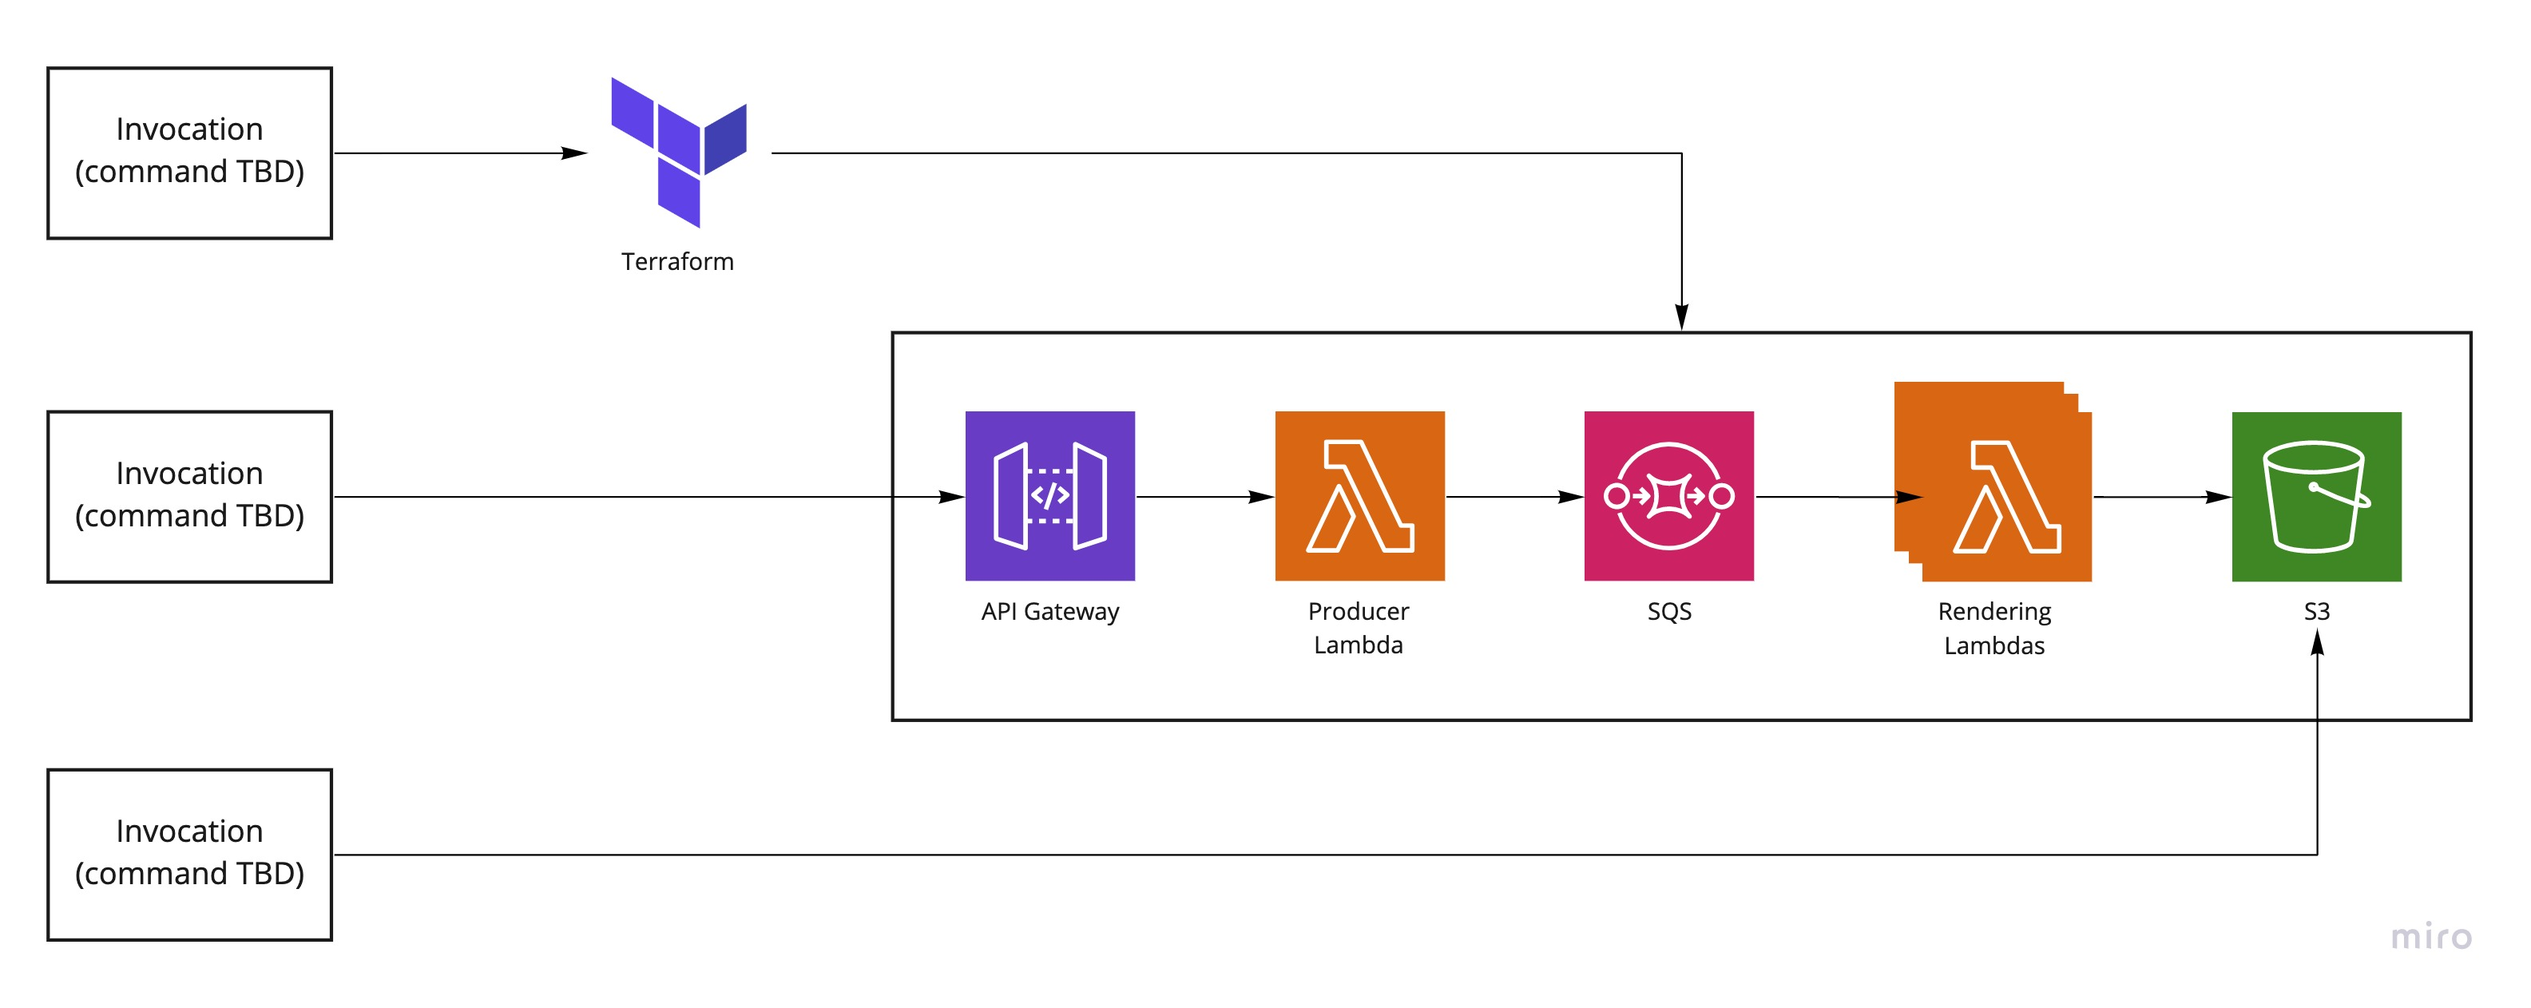
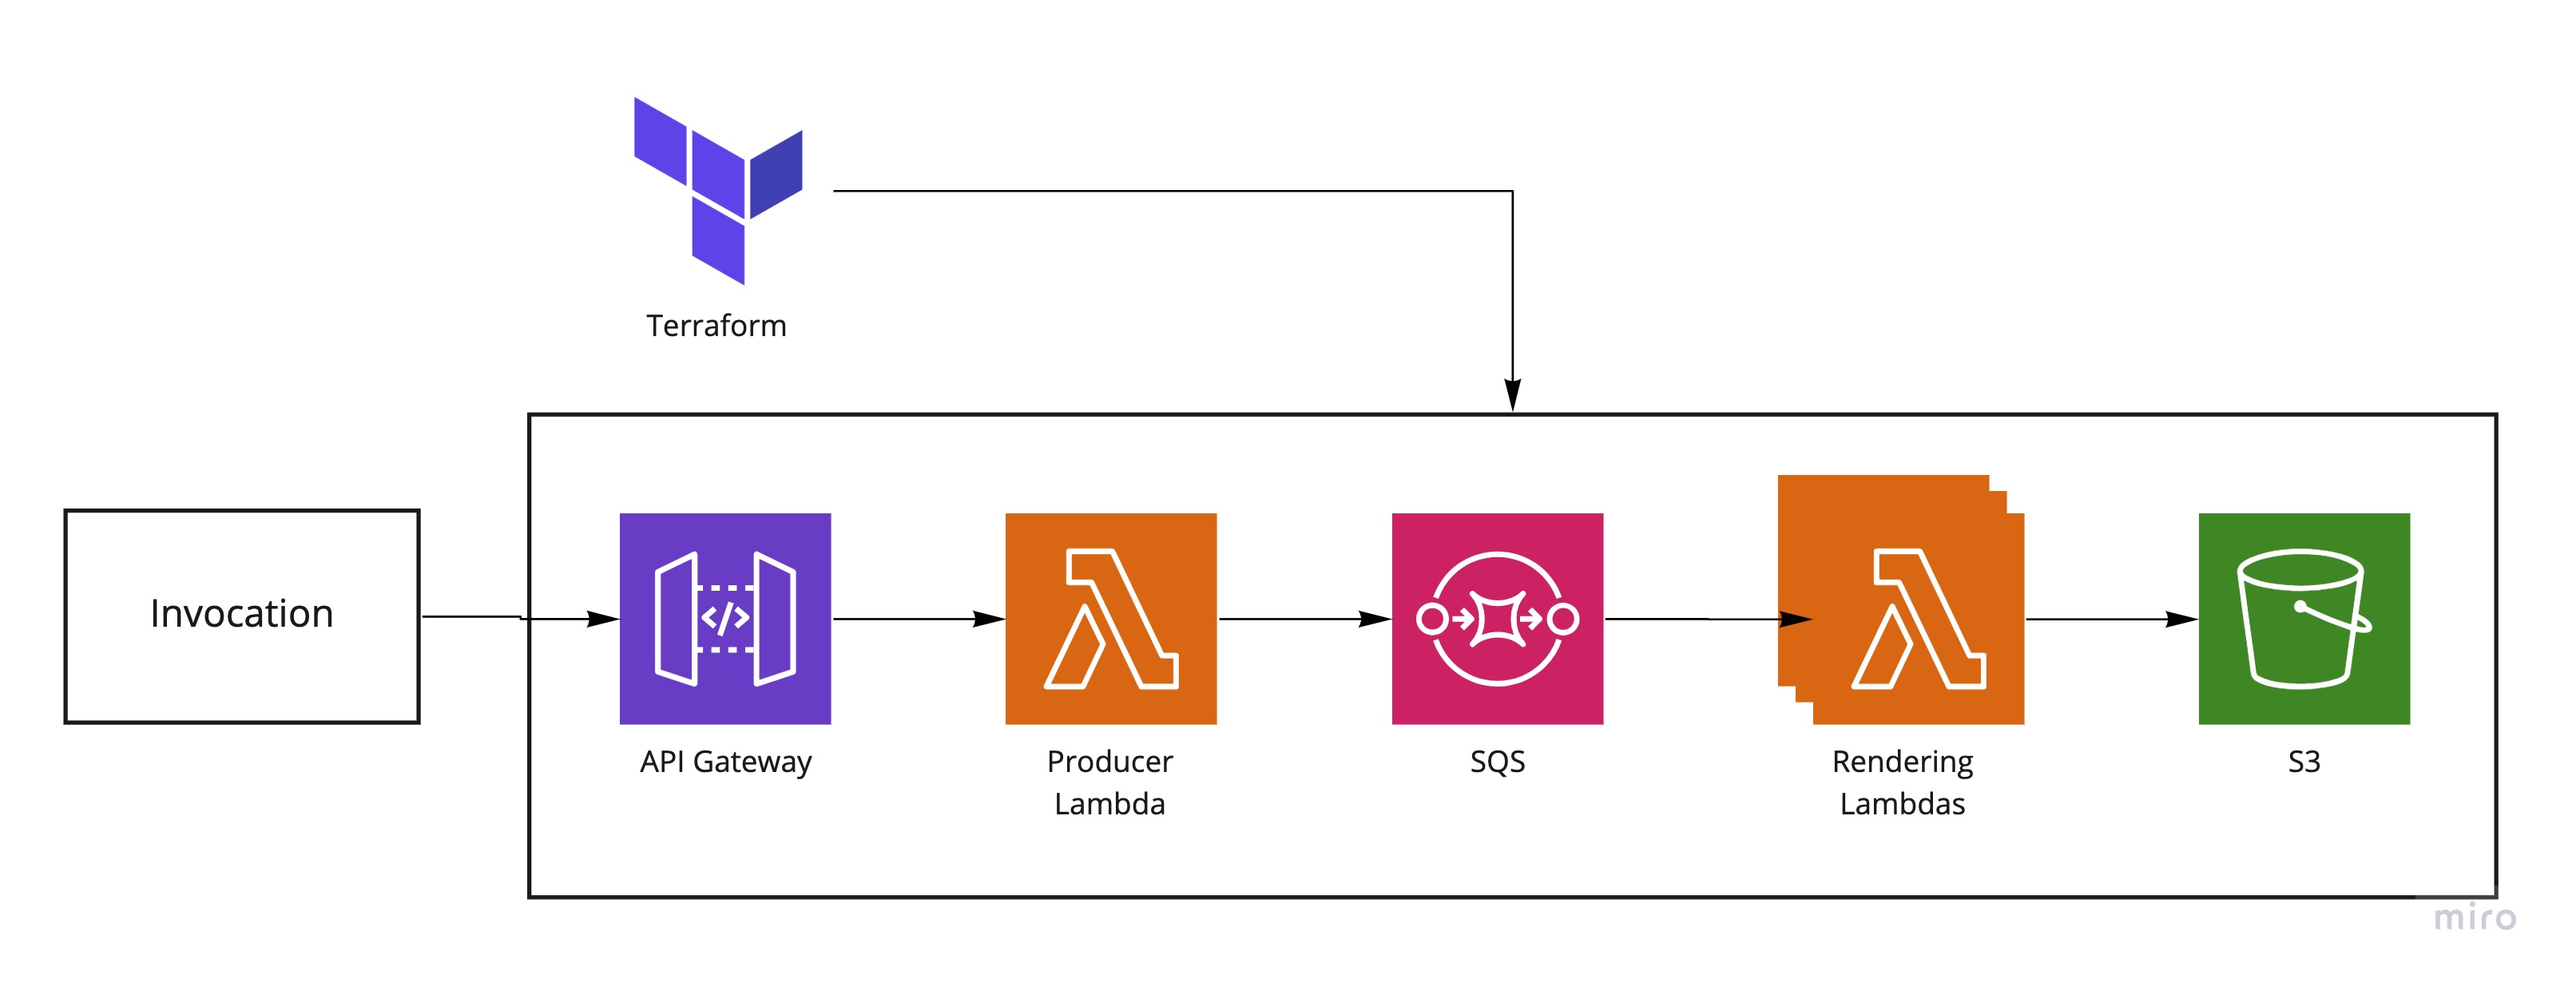
Documentation

diff --git a/README.md b/README.md
@@ -1,8 +1,44 @@
-# Blender Lambda
+# TAS PC
 
-This repository uses Terraform to automatically create a Lambda infrastructure that assists with Blender files rendering.
+_Terraform-AWS Serverless Producer-Consumer Module_.
 
-## Architecture
+This repository uses Terraform to automatically create a Lambda infrastructure that produces events through an API Gateway powered lambda function, stores them in an AWS SQS queue and through event sources automatically fires consumer functions.
+
+The lambdas also have optional access to a S3 bucket that can be used to store results.
+
+But one picture is worth a thousand words:
 
 ![](architecture.jpg)
 
+## How to use
+
+1. Clone this repository
+2. Adapt the variables in `vars.tf`,  or create your own `tfvars` file.
+3. Adapt your code from the base of `consumer_function/` and `producer_function/` python modules. (You don't need to use python.)
+3. `terraform init`
+4. `terraform apply`
+5. `./test.sh` to shoot a message and see it queued.
+
+## Demo
+
+```bash
+./test.sh
+```
+
+```json
+{
+  "MD5OfMessageBody": "c7bb08ef48366081a55037f8e0deef97",
+  "MessageId": "d48b8dc1-5e30-4681-9d48-1505f12a3740",
+  "ResponseMetadata": {
+    "RequestId": "82ec27b7-a468-5605-81e6-7da1ee2c2c40",
+    "HTTPStatusCode": 200,
+    "HTTPHeaders": {
+      "x-amzn-requestid": "82ec27b7-a468-5605-81e6-7da1ee2c2c40",
+      "date": "Tue, 23 Nov 2021 01:46:44 GMT",
+      "content-type": "text/xml",
+      "content-length": "378"
+    },
+    "RetryAttempts": 0
+  }
+}
+```
